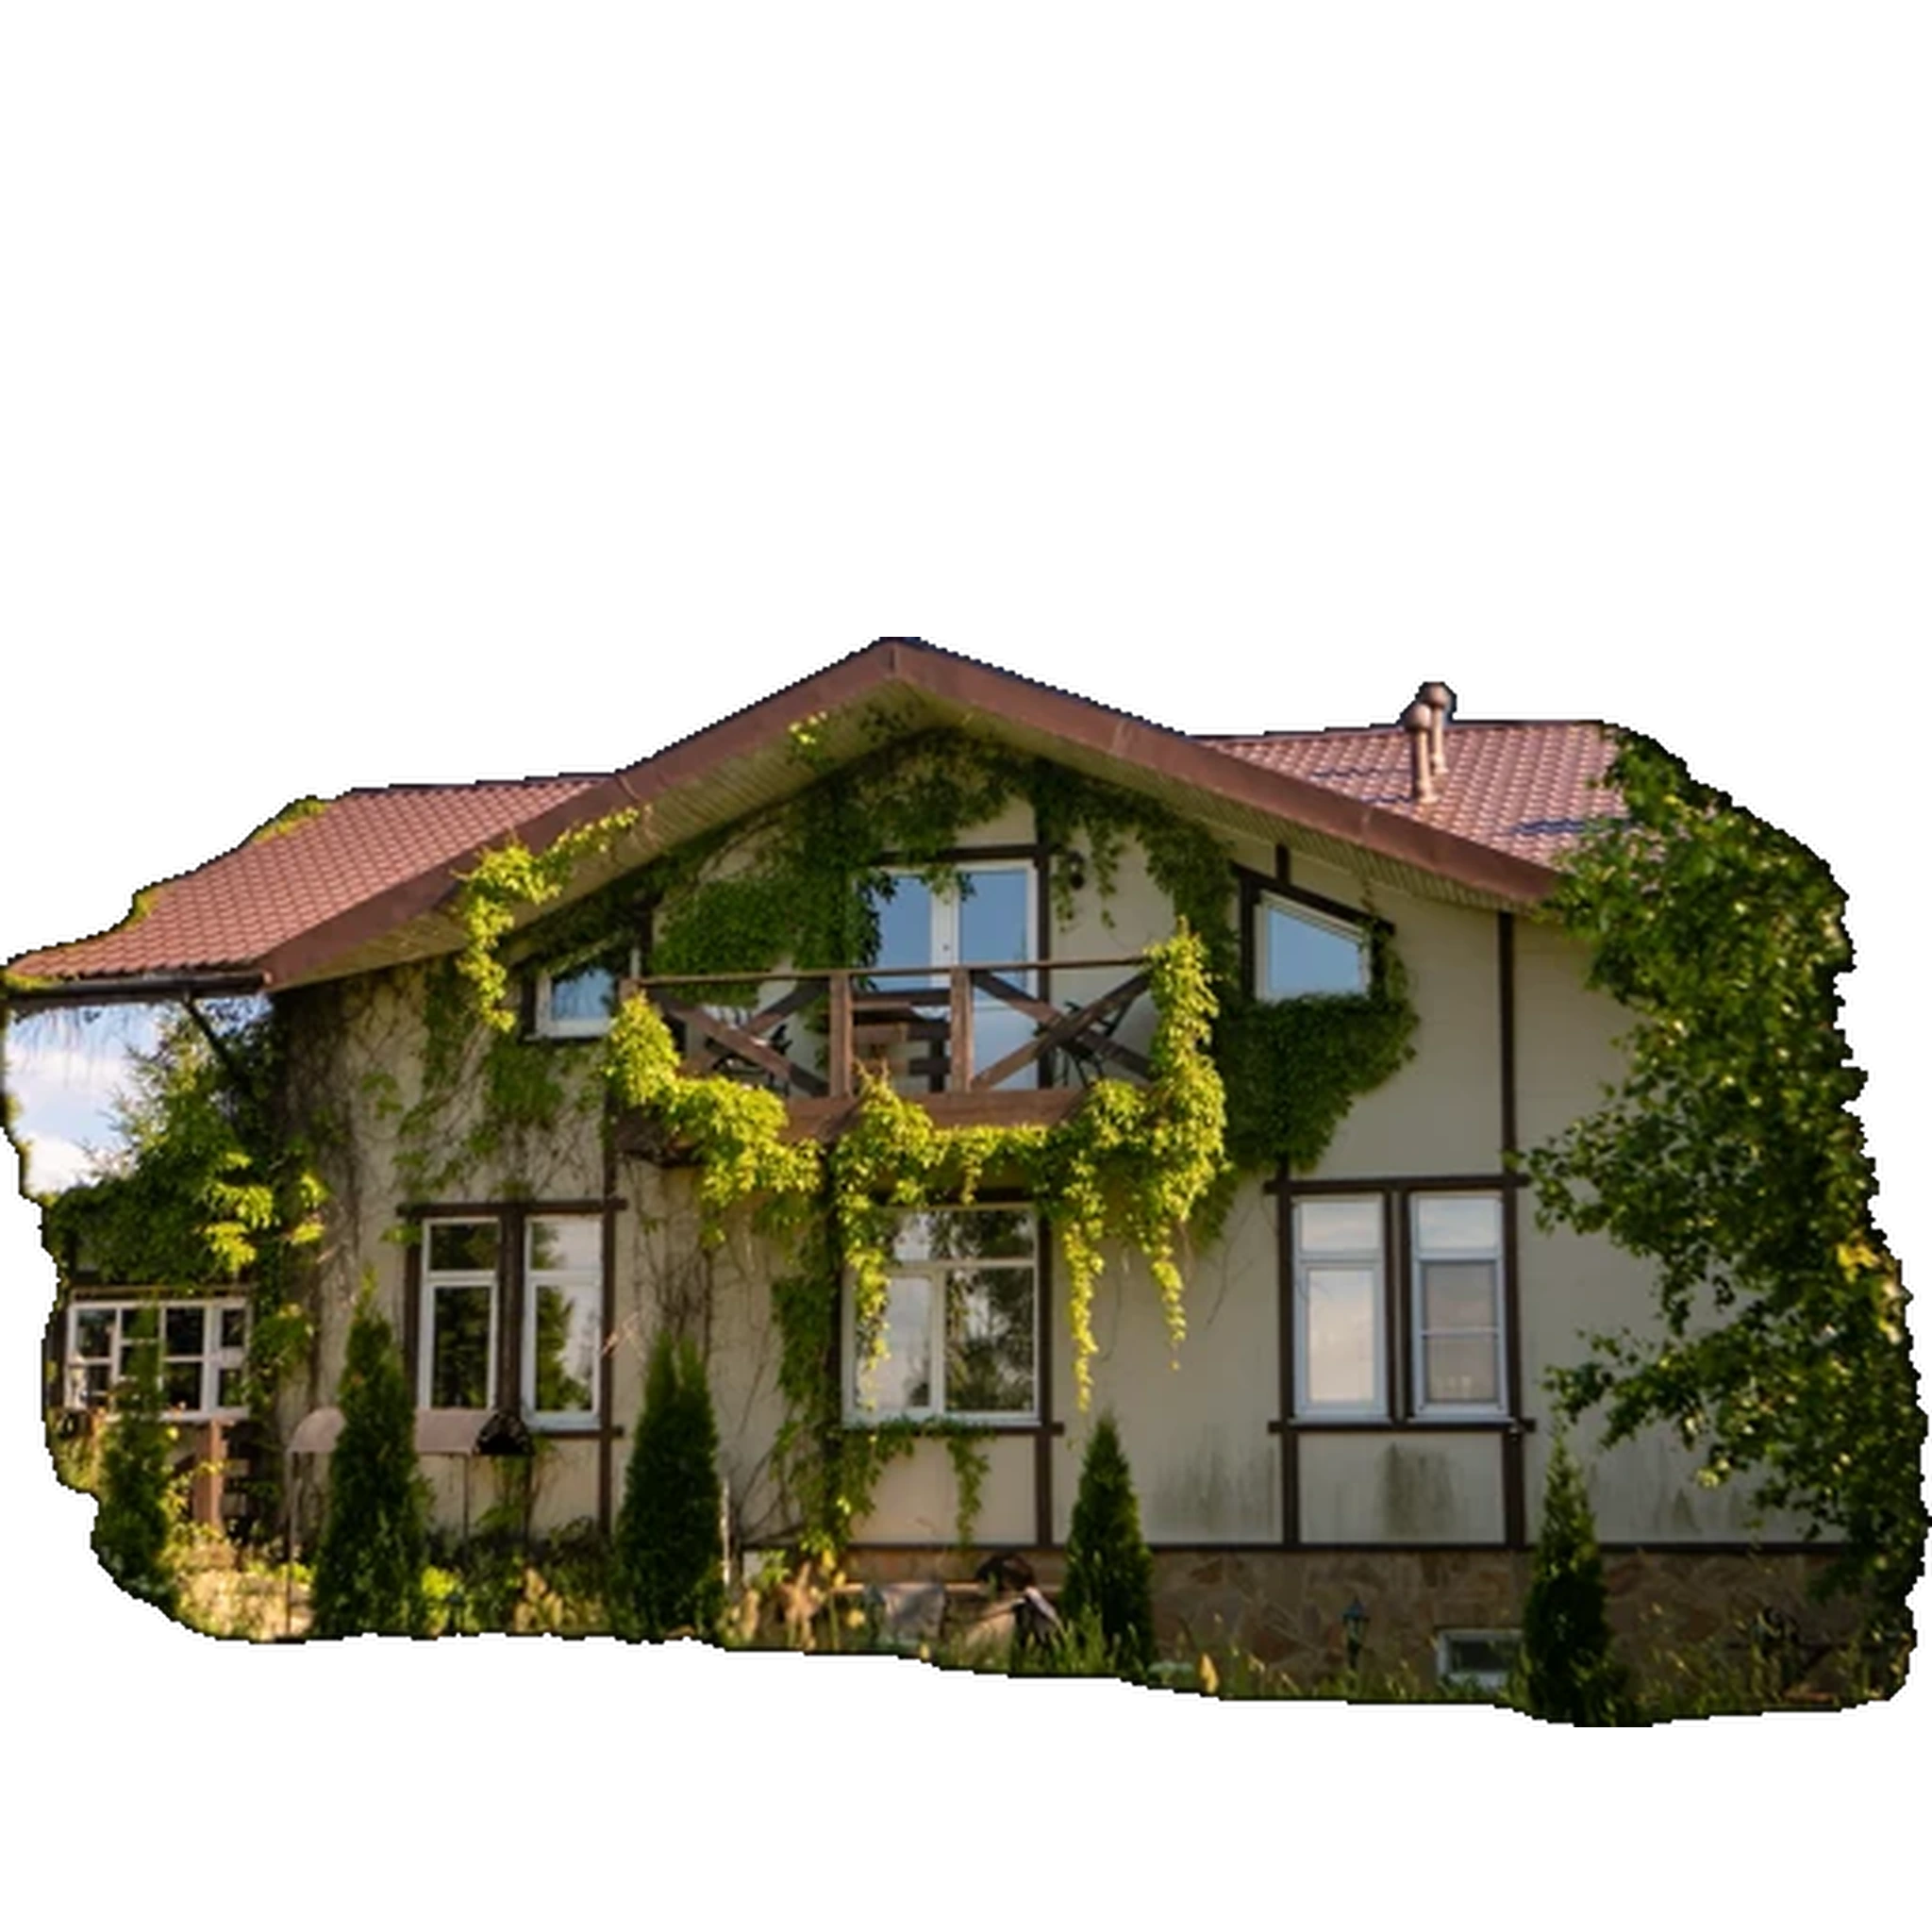
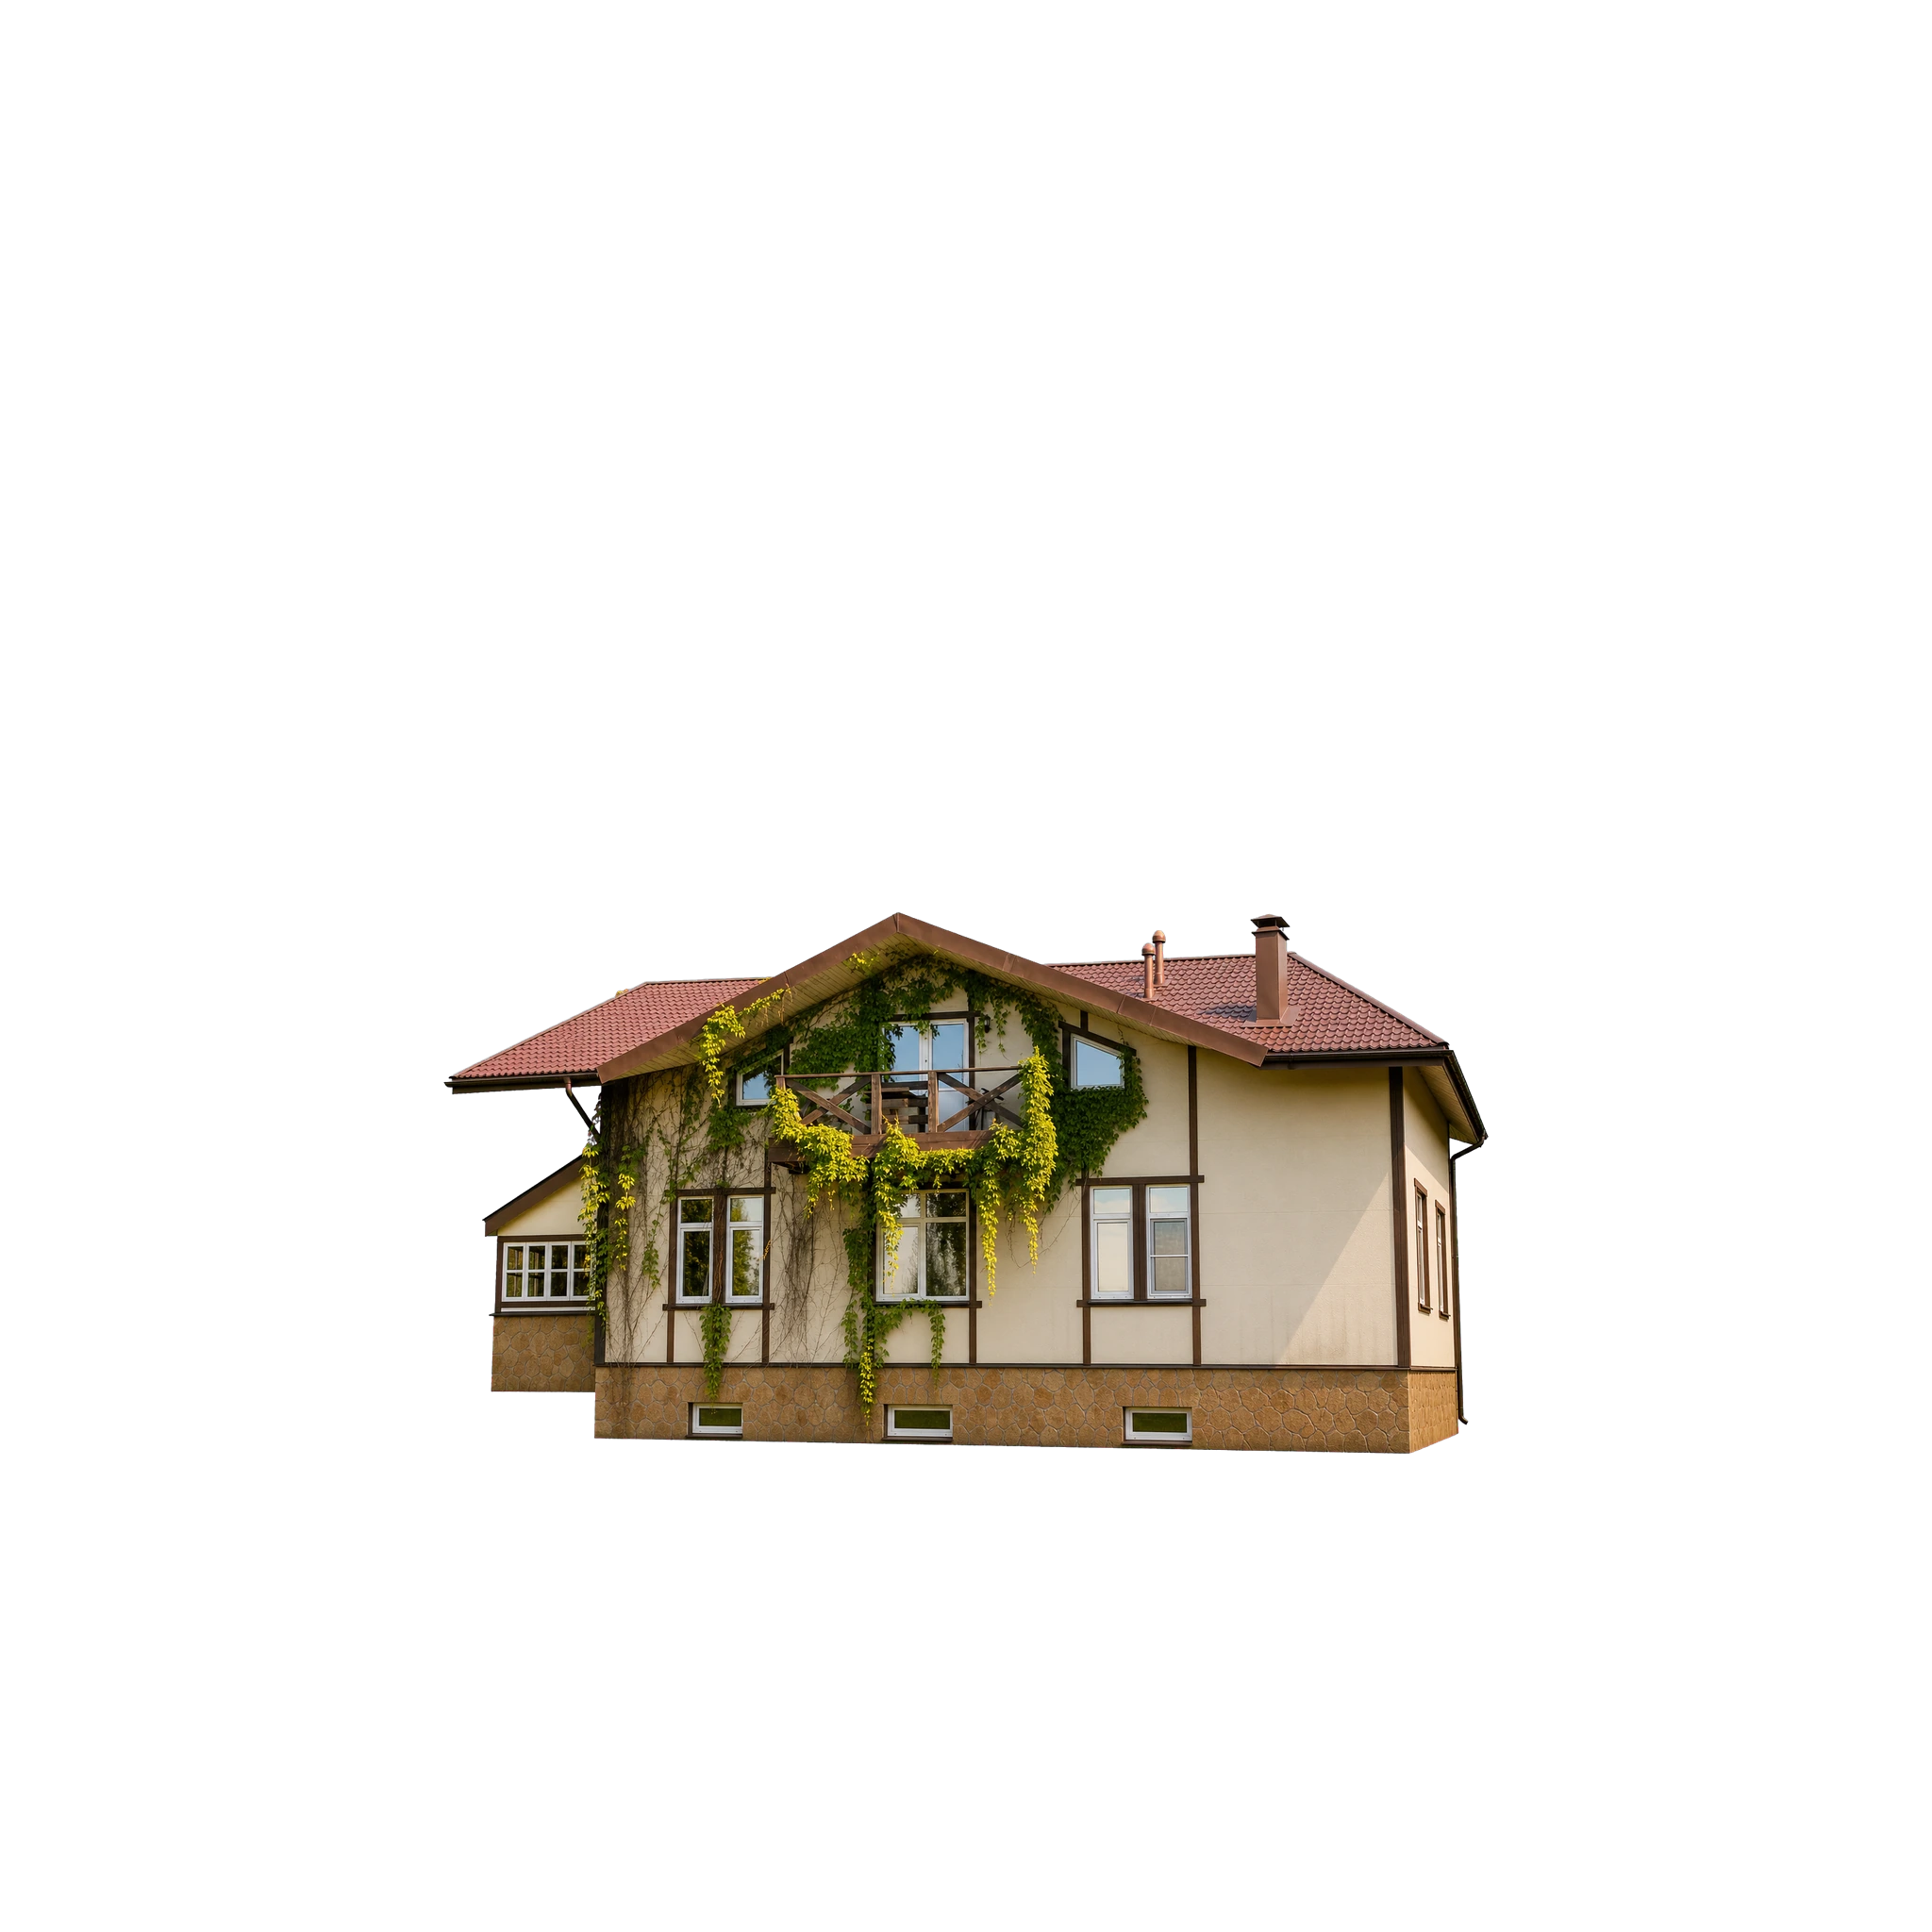
animation+card

diff --git a/app/dst/index.js b/app/dst/index.js
@@ -22218,16 +22218,19 @@
   var fg1_default = "/fg1-2SFZA7JK.webp";
 
   // src/assets/castle.webp
-  var castle_default = "/castle-G2KAKXJG.webp";
+  var castle_default = "/castle-inner-circle-house.webp";
+
+  // src/assets/castle-vegetation.webp
+  var castle_vegetation_default = "/castle-vegetation-layer.webp";
 
   // src/assets/bg1.webp
   var bg1_default = "/bg1-RW4V5JX7.webp";
 
   // src/assets/bg2.webp
-  var bg2_default = "/bg2-3YPW5VQM.webp";
+  var bg2_default = "/castle-bg2-empty.webp";
 
   // src/assets/sky.jpg
-  var sky_default = "/sky-SUG22KWU.jpg";
+  var sky_default = "/castle-sky-from-photo.webp";
 
   // src/components/stage/image.vert
   var image_default = "#define GLSLIFY 1\nvarying vec2 vUv;\n\nvoid main() {\n	vUv = uv;\n	gl_Position = projectionMatrix * modelViewMatrix * vec4(position, 1.0);\n}\n";
@@ -22307,7 +22310,7 @@
   };
 
   // src/components/stage/Intro.ts
-  var MAPS = [leaves_left_default, leaves_right_default, fg2_default, fg1_default, castle_default, bg1_default, bg2_default, sky_default];
+  var MAPS = [leaves_left_default, leaves_right_default, fg2_default, fg1_default, castle_vegetation_default, castle_default, bg1_default, bg2_default, sky_default];
   var CAM_DELAY = 0.01;
   var CAM_Z = 16;
   var Intro = class {
@@ -22376,6 +22379,7 @@
       });
       this.fg1 = new IntroPlane({ parent: this.scene, z: 5, animate: false, size: 5, strength: 5e-3 });
       this.fg2 = new IntroPlane({ parent: this.scene, z: 8 });
+      this.castleVegetation = new IntroPlane({ parent: this.scene, z: 3, float: true });
       this.castle = new IntroPlane({ parent: this.scene, z: 0 });
       this.bg1 = new IntroPlane({ parent: this.scene, z: -40 });
       this.bg2 = new IntroPlane({ parent: this.scene, z: -400 });
@@ -22448,6 +22452,7 @@
     leavesRight2;
     leavesLeft3;
     leavesRight3;
+    castleVegetation;
     castle;
     fg2;
     fg1;
@@ -22481,10 +22486,11 @@
       this.leavesRight3.setTexture(textures[1]);
       this.fg2.setTexture(textures[2]);
       this.fg1.setTexture(textures[3]);
-      this.castle.setTexture(textures[4]);
-      this.bg1.setTexture(textures[5]);
-      this.bg2.setTexture(textures[6]);
-      this.sky.setTexture(textures[7]);
+      this.castleVegetation.setTexture(textures[4]);
+      this.castle.setTexture(textures[5]);
+      this.bg1.setTexture(textures[6]);
+      this.bg2.setTexture(textures[7]);
+      this.sky.setTexture(textures[8]);
       this.stage.renderer.compile(this.scene, this.camera);
       this.loaded = true;
     }
@@ -22549,6 +22555,7 @@
       this.leavesLeft3.resize(filmHeight, focalLength, CAM_Z, aspect2);
       this.fg2.resize(filmHeight, focalLength, CAM_Z, aspect2);
       this.fg1.resize(filmHeight, focalLength, CAM_Z, aspect2);
+      this.castleVegetation.resize(filmHeight, focalLength, CAM_Z, aspect2);
       this.castle.resize(filmHeight, focalLength, CAM_Z, aspect2);
       this.bg1.resize(filmHeight, focalLength, CAM_Z, aspect2);
       this.bg2.resize(filmHeight, focalLength, CAM_Z, aspect2);
@@ -22586,6 +22593,7 @@
       this.leavesRight3.update(time);
       this.fg2.update(time);
       this.fg1.update(time);
+      this.castleVegetation.update(time);
       this.castle.update(time);
       this.bg1.update(time);
       this.bg2.update(time);
@@ -24112,10 +24120,10 @@
   }
 
   // src/assets/map_mobile.image.svg
-  var map_mobile_image_default = "/map_mobile.image-K6Q4D5WI.svg";
+  var map_mobile_image_default = "/map_mobile.image-K6Q4D5WI.svg?v=yanino-2";
 
   // src/assets/map_desktop.image.svg
-  var map_desktop_image_default = "/map_desktop.image-FMOASJK5.svg";
+  var map_desktop_image_default = "/map_desktop.image-FMOASJK5.svg?v=yanino-2";
 
   // src/components/Section.ts
   function Section(props, first = false, lessBottomPadding = false) {
@@ -24170,7 +24178,7 @@
         `<div class="${clsx_default(Section_default.Map, FadeIn_default.Main)}">
 						<picture class="${Section_default.Inner}">
 							<source srcset="${map_desktop_image_default}" media="(min-width: 1024px)" />
-							<img src="${map_mobile_image_default}" loading="lazy" alt="map" />
+							<img src="${map_mobile_image_default}" loading="eager" alt="map" />
 						</picture>
 				  </div>`
       ) : ""}

diff --git a/app/dst/ru/kontakt/index.html b/app/dst/ru/kontakt/index.html
@@ -12,8 +12,10 @@
 				<script>window.__ROUTES__ = ["/en/","/en/404/","/en/booking-enquiry/","/en/cause-we-care/","/en/event/","/en/form-successfully-submitted/","/en/hotel/","/en/impressum/","/en/info/","/en/kontakt/","/en/legal/","/en/lieferanten/","/en/ostern/","/en/restaurant/","/en/seminar/","/en/sommerfrische/","/ru/","/ru/404/","/ru/adventsfenster/","/ru/anfrage-event/","/ru/anfrage-hochzeit-friday-special/","/ru/anfrage-hochzeit/","/ru/anfrage-seminar/","/ru/arbeiten-auf-dem-schloss/","/ru/auffahrt/","/ru/bewerbung/","/ru/buchungsanfrage/","/ru/cause-we-care/","/ru/chor-der-100/","/ru/code/","/ru/comedy-dinner/","/ru/event/","/ru/form-successfully-submitted/","/ru/formats/","/ru/heiraten-auf-dem-schloss/","/ru/hochzeiten-und-feiern/","/ru/hotel/","/ru/impressum/","/ru/info/","/ru/initiativ-bewerbung/","/ru/kontakt/","/ru/legal/","/ru/lieferanten/","/ru/metzgete/","/ru/nachricht/","/ru/order-successfully-submitted/","/ru/ostern/","/ru/restaurant/","/ru/seminar/","/ru/senderliste/","/ru/sommerfrische/","/ru/space/","/ru/tag-der-offenen-tur/","/ru/theater-annet-am-rhy/","/ru/tickets-sommerfest/","/ru/veranstaltungen/","/ru/wild-event/","/unpublished/"]</script>
 					<script async defer src="../../index.js"></script>
 					<link rel="stylesheet" type="text/css" href="../../index.css" />
+					<!-- 3D map temporarily disabled; keep the files for the next iteration.
 					<link rel="stylesheet" type="text/css" href="/assets/inner-circle/inner-circle-map.css" />
 					<script type="module" src="/assets/inner-circle/inner-circle-map.js"></script>
+					-->
 			</head>
 <body class="_836ebc">
 	<div class="_0300ce"></div>
@@ -41,25 +43,24 @@
 			</form>
 			<div class="_695ee5"></div>
 		</div>
-		<div class="_fddeb5 _da312f inner-circle-static-map-compare">
+		<div class="_fddeb5 _da312f inner-circle-static-map">
 			<div class="_09d861">
-				<div class="_f55a96 _76b310">старый блок макета</div>
-				<div class="_30ea2f _76b310"><h1>Статичная<br />карта.</h1></div>
+				<div class="_f55a96 _76b310">место</div>
+				<div class="_30ea2f _76b310"><h1>Янино-2<br />на восточной линии Петербурга.</h1></div>
 			</div>
 			<div class="_756826">
-				<div class="_936645 _76b310"><p>Контрольный вариант из исходного сайта.</p></div>
-				<div class="_b02a17 _76b310"><p>Это старая схема: две SVG-карты для мобильного и десктопа, без вращения, зума и кликабельных точек. Оставляю её здесь рядом с новым 3D-блоком, чтобы можно было сравнить ритм, масштаб, читаемость и ощущение карты внутри страницы.</p></div>
-				<div class="_d43f79 _76b310"><ul><li>SVG.</li><li>Без<br />управления.</li><li>Старый<br />макет.</li></ul></div>
-				<div class="inner-circle-static-map-note _76b310">ниже — новая 3D-карта для сравнения</div>
+				<div class="_936645 _76b310"><p>Вдалеке от цивилизации, но рядом с городом.</p></div>
+				<div class="_b02a17 _76b310"><p>Ближний круг находится в Янино-2, на Колтушском направлении: между восточной границей Петербурга, дорогой к области и зелёным рельефом Колтушских высот.</p><p>Это место не продаёт адрес. Оно приглашает в закрытый маршрут: из города — в дом, где день собран заранее и время снова принадлежит вам.</p></div>
+				<div class="_d43f79 _76b310"><ul><li>Петербург<br />рядом.</li><li>Янино-2.</li><li>Колтушские<br />высоты.</li></ul></div>
 			</div>
 			<div class="_f4bd3b _76b310">
 				<picture class="_e7e68a">
-					<source srcset="/map_desktop.image-FMOASJK5.svg" media="(min-width: 1024px)" />
-					<img src="/map_mobile.image-K6Q4D5WI.svg" loading="lazy" alt="Статичная карта из старого макета" />
+					<source srcset="/map_desktop.image-FMOASJK5.svg?v=yanino-2" media="(min-width: 1024px)" />
+					<img src="/map_mobile.image-K6Q4D5WI.svg?v=yanino-2" loading="eager" alt="Карта Янино-2 рядом с Петербургом" />
 				</picture>
 			</div>
 		</div>
-		<section class="inner-circle-map-section" data-inner-circle-map aria-labelledby="inner-circle-map-title">
+		<section class="inner-circle-map-section" data-inner-circle-map-disabled hidden aria-hidden="true" aria-labelledby="inner-circle-map-title">
 			<div class="inner-circle-map-copy _76b310">
 				<div class="inner-circle-map-eyebrow">карта окрестностей</div>
 				<h1 class="inner-circle-map-title" id="inner-circle-map-title">Янино-2<br />и Колтушские высоты.</h1>

diff --git a/app/dst/assets/inner-circle/inner-circle-map.css b/app/dst/assets/inner-circle/inner-circle-map.css
@@ -232,6 +232,7 @@
 }
 
 .inner-circle-static-map-compare {
+  display: none;
   background: var(--green-dark);
   color: var(--grey);
 }